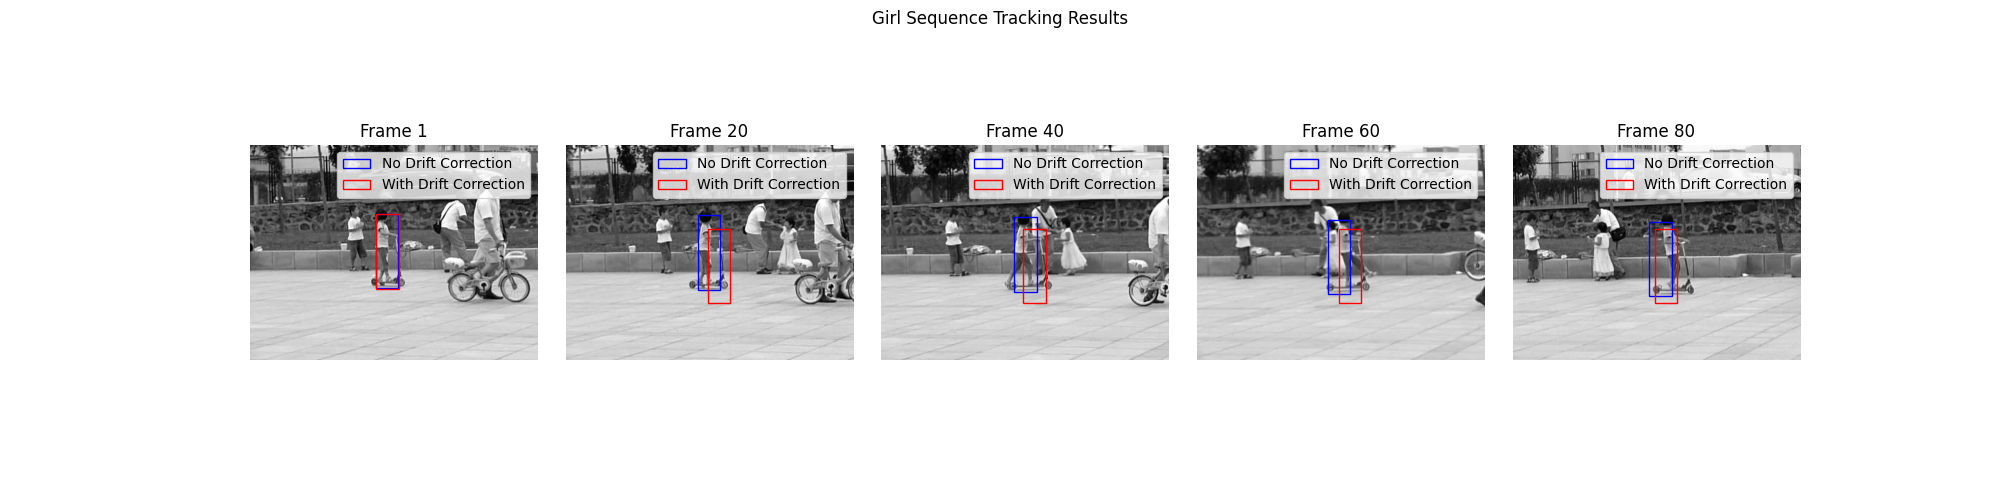
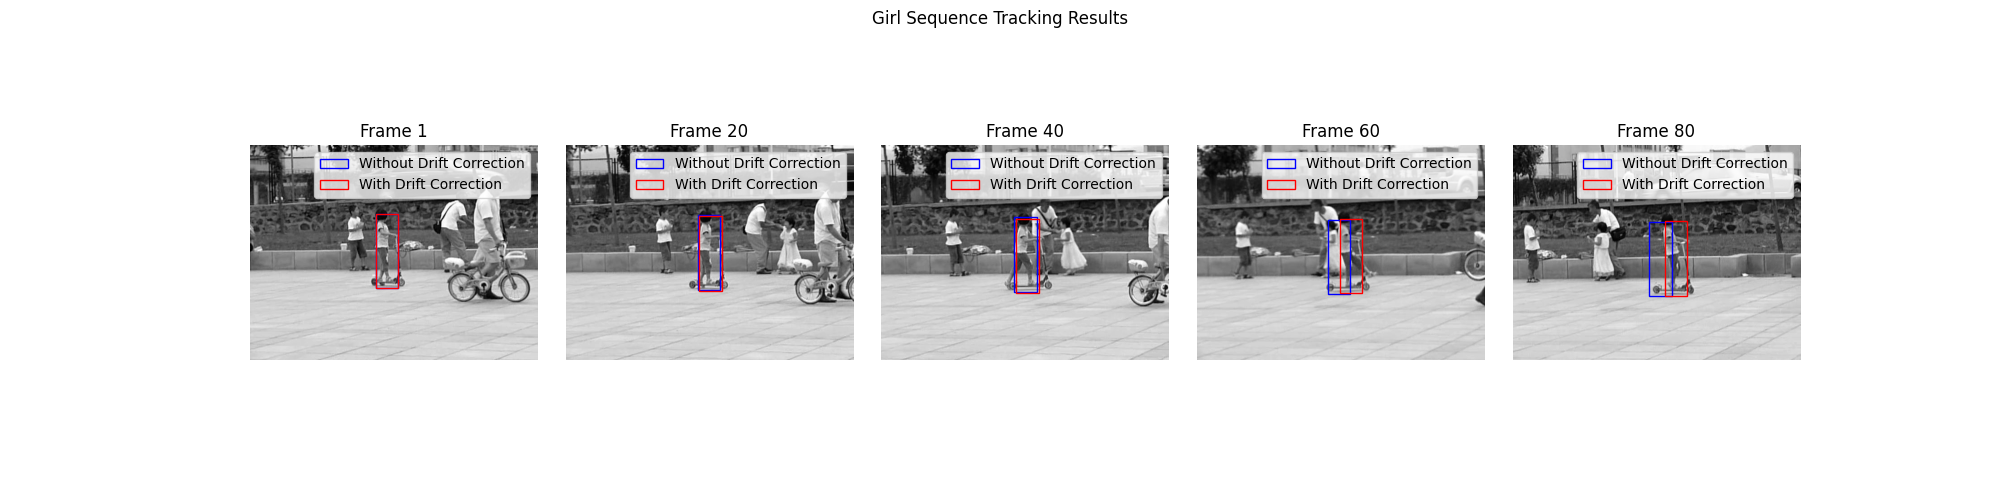
drift correction works

diff --git a/HW2_Lucas_Kanade_Tracking/code/testCarSequenceWithTemplateCorrection.py b/HW2_Lucas_Kanade_Tracking/code/testCarSequenceWithTemplateCorrection.py
@@ -4,8 +4,7 @@ import matplotlib.pyplot as plt
 import matplotlib.patches as patches
 from LucasKanade import LucasKanade
 
-# write your script here, we recommend the above libraries for making your animation
-
+# Argument parser for customizable parameters
 parser = argparse.ArgumentParser()
 parser.add_argument(
     '--num_iters', type=int, default=1e4, help='number of iterations of Lucas-Kanade'
@@ -27,82 +26,62 @@ num_iters = args.num_iters
 threshold = args.threshold
 template_threshold = args.template_threshold
 
-# load the car sequence
+# load the girl sequence
 seq = np.load("../data/carseq.npy")
 
-# templet in the first frame
-rect_ndc = [59, 116, 145, 151]   # no drift correction
-rect_wdc = [59, 116, 145, 151]   # with drift correction
+# initial template in the first frame
+rect_wdc = np.array([59, 116, 145, 151])    # with drift correction   
+rect_ndc = rect_wdc.copy()                  # no drift correction
+rects_wdc = [rect_wdc.copy()]           
+rects_ndc = [rect_ndc.copy()]   
 
 # number of frames for the sequence
 num_frames = seq.shape[2]
 
-# initialize the rectangle coordinates (no drift correction)
-rects_ndc = np.zeros((num_frames, 4))
-rects_ndc[0] = rect_ndc.copy()
+# initial template in the first frame
+It = seq[:, :, 0]
+It0 = seq[:, :, 0]
 
-# initialize the rectangle coordinates (with drift correction)
-rects_wdc = np.zeros((num_frames, 4))
-rects_wdc[0] = rect_wdc.copy()
-
-# iterate through the frames
 for i in range(num_frames - 1):
     print(f"Tracking at frame {i + 1}/{num_frames - 1}")
 
     # get the first, current, and next frame images
-    It = seq[:, :, i]
     It1 = seq[:, :, i + 1]
-    It0 = seq[:, :, 0]
-
+ 
     # run Lucas-Kanade tracking without drift correction
     p_ndc = LucasKanade(It, It1, rect_ndc, threshold, num_iters)
 
-    # update the rectangle coordinates (no drift correction)
-    rect_ndc[0] += p_ndc[0]
-    rect_ndc[1] += p_ndc[1]
-    rect_ndc[2] += p_ndc[0]
-    rect_ndc[3] += p_ndc[1]
-
-    # Save the rectangle coordinates (no drift correction)
-    rects_ndc[i + 1] = rect_ndc.copy()
+    # update the rectangle coordinates without drift correction
+    rect_ndc = rect_ndc + np.array([p_ndc[0], p_ndc[1], p_ndc[0], p_ndc[1]])
+    rects_ndc.append(rect_ndc.copy())
 
     # run Lucas-Kanade tracking (with drift correction)
-    p_wdc = LucasKanade(It0, It1, rect_wdc, threshold, num_iters, p_ndc)
+    p = LucasKanade(It, It1, rect_wdc, threshold, num_iters)
 
-    # update the rectangle coordinates (with drift correction)
-    rect_wdc[0] += p_wdc[0]
-    rect_wdc[1] += p_wdc[1]
-    rect_wdc[2] += p_wdc[0]
-    rect_wdc[3] += p_wdc[1]
-
-    # calculate drift
-    drift = p_wdc - p_ndc
+    # update the rectangle coordinates with drift correction
+    p_n = np.array(rects_wdc[-1][:2]) - np.array(rects_wdc[0][:2]) + p
+    p_star = LucasKanade(It0, It1, rects_wdc[0], threshold, num_iters, p_n)
 
     # drift correction condition
-    if np.linalg.norm(drift) <= template_threshold:
-        # apply drift correction
-        rect_wdc[0] += p_wdc[0]
-        rect_wdc[1] += p_wdc[1]
-        rect_wdc[2] += p_wdc[0]
-        rect_wdc[3] += p_wdc[1]
-        print(f"Frame {i+1}: Drift correction applied with {drift}")
+    if np.linalg.norm(p_star - p_n) <= template_threshold:
+        It = It1
+        p_star = np.array(rects_wdc[0][:2]) - np.array(rects_wdc[-1][:2]) + p_star
+        p = p_star
 
-    else:
-        # keep previous template
-        rect_wdc = rects_wdc[i].copy()
-        print(f"Frame {i+1}: No drift correction applied")
-        
-    # Save the rectangle coordinates with drift correction
-    rects_wdc[i + 1] = rect_wdc.copy()
+    # update the rectangle coordinates
+    rect_wdc = rect_wdc + np.array([p[0], p[1], p[0], p[1]])
+    rects_wdc.append(rect_wdc.copy())
 
 # save the rectangle coordinates to file
-np.save("../results/carseqrects.npy", rects_ndc)
+rects_wdc = np.array(rects_wdc)         
+rects_ndc = np.array(rects_ndc)       
 np.save("../results/carseqrects-wcrt.npy", rects_wdc)
+np.save("../results/carseqrects.npy", rects_ndc)
 
 # visualize the tracking results @ frame 1, 100, 200, 300, 400 
 frames = [1, 100, 200, 300, 400]
 fig, ax = plt.subplots(1, len(frames), figsize=(20, 5))
-fig.suptitle("Car Sequence Tracking Results") 
+fig.suptitle("Car Sequence Tracking Results")
 plt.subplots_adjust(wspace=0.1, hspace=0.1)
 
 for i, frame in enumerate(frames):
@@ -133,7 +112,7 @@ for i, frame in enumerate(frames):
         )
     )
     ax[i].set_title(f"Frame {frame}", fontsize=12)
-    ax[i].legend(["No Drift Correction", "With Drift Correction"])
+    ax[i].legend(["Without Drift Correction", "With Drift Correction"])
 
 plt.savefig("../results/Q1.4_car.png")
 plt.show()

diff --git a/HW2_Lucas_Kanade_Tracking/code/testGirlSequenceWithTemplateCorrection.py b/HW2_Lucas_Kanade_Tracking/code/testGirlSequenceWithTemplateCorrection.py
@@ -4,8 +4,7 @@ import matplotlib.pyplot as plt
 import matplotlib.patches as patches
 from LucasKanade import LucasKanade
 
-# write your script here, we recommend the above libraries for making your animation
-
+# Argument parser for customizable parameters
 parser = argparse.ArgumentParser()
 parser.add_argument(
     '--num_iters', type=int, default=1e4, help='number of iterations of Lucas-Kanade'
@@ -30,79 +29,59 @@ template_threshold = args.template_threshold
 # load the girl sequence
 seq = np.load("../data/girlseq.npy")
 
-# templet in the first frame
-rect_ndc = [280, 152, 330, 318]   # no drift correction
-rect_wdc = [280, 152, 330, 318]   # with drift correction
+# initial template in the first frame
+rect_wdc = np.array([280, 152, 330, 318])   # with drift correction   
+rect_ndc = rect_wdc.copy()                      # no drift correction
+rects_wdc = [rect_wdc.copy()]           
+rects_ndc = [rect_ndc.copy()]   
 
 # number of frames for the sequence
 num_frames = seq.shape[2]
 
-# initialize the rectangle coordinates without drift correction
-rects_ndc = np.zeros((num_frames, 4))
-rects_ndc[0] = rect_ndc.copy()
+# initial template in the first frame
+It = seq[:, :, 0]
+It0 = seq[:, :, 0]
 
-# initialize the rectangle coordinates with drift correction
-rects_wdc = np.zeros((num_frames, 4))
-rects_wdc[0] = rect_wdc.copy()
-
-# iterate through the frames
 for i in range(num_frames - 1):
     print(f"Tracking at frame {i + 1}/{num_frames - 1}")
 
     # get the first, current, and next frame images
-    It = seq[:, :, i]
     It1 = seq[:, :, i + 1]
-    It0 = seq[:, :, 0]
-
+ 
     # run Lucas-Kanade tracking without drift correction
     p_ndc = LucasKanade(It, It1, rect_ndc, threshold, num_iters)
 
     # update the rectangle coordinates without drift correction
-    rect_ndc[0] += p_ndc[0]
-    rect_ndc[1] += p_ndc[1]
-    rect_ndc[2] += p_ndc[0]
-    rect_ndc[3] += p_ndc[1]
-
-    # Save the rectangle coordinates without drift correction
-    rects_ndc[i + 1] = rect_ndc.copy()
+    rect_ndc = rect_ndc + np.array([p_ndc[0], p_ndc[1], p_ndc[0], p_ndc[1]])
+    rects_ndc.append(rect_ndc.copy())
 
     # run Lucas-Kanade tracking (with drift correction)
-    p_wdc = LucasKanade(It0, It1, np.array(rect_wdc), threshold, num_iters, p_ndc)
+    p = LucasKanade(It, It1, rect_wdc, threshold, num_iters)
 
-    # update the rectangle coordinates (with drift correction)
-    rect_wdc[0] += p_wdc[0]
-    rect_wdc[1] += p_wdc[1]
-    rect_wdc[2] += p_wdc[0]
-    rect_wdc[3] += p_wdc[1]
-
-    # calculate drift
-    drift = p_wdc - p_ndc
+    # update the rectangle coordinates with drift correction
+    p_n = np.array(rects_wdc[-1][:2]) - np.array(rects_wdc[0][:2]) + p
+    p_star = LucasKanade(It0, It1, rects_wdc[0], threshold, num_iters, p_n)
 
     # drift correction condition
-    if np.linalg.norm(drift) <= template_threshold:
-        # apply drift correction
-        rect_wdc[0] += p_wdc[0]
-        rect_wdc[1] += p_wdc[1]
-        rect_wdc[2] += p_wdc[0]
-        rect_wdc[3] += p_wdc[1]
-        print(f"Frame {i + 1}: Drift correction applied with {drift}")
+    if np.linalg.norm(p_star - p_n) <= template_threshold:
+        It = It1
+        p_star = np.array(rects_wdc[0][:2]) - np.array(rects_wdc[-1][:2]) + p_star
+        p = p_star
 
-    else:
-        # keep previous template
-        rect_wdc = rects_wdc[i].copy()
-        print(f"Frame {i + 1}: No drift correction applied")
-
-    # Save the rectangle coordinates with drift correction
-    rects_wdc[i + 1] = rect_wdc.copy()
+    # update the rectangle coordinates
+    rect_wdc = rect_wdc + np.array([p[0], p[1], p[0], p[1]])
+    rects_wdc.append(rect_wdc.copy())
 
 # save the rectangle coordinates to file
-np.save("../results/girlseqrects.npy", rects_ndc)
+rects_wdc = np.array(rects_wdc)         
+rects_ndc = np.array(rects_ndc)       
 np.save("../results/girlseqrects-wcrt.npy", rects_wdc)
+np.save("../results/girlseqrects.npy", rects_ndc)
 
-# visualize the tracking results @ frame 1, 20, 40, 60, 80 
+# visualize the tracking results @ frame 1, 20, 40, 60, 80
 frames = [1, 20, 40, 60, 80]
 fig, ax = plt.subplots(1, len(frames), figsize=(20, 5))
-fig.suptitle("Girl Sequence Tracking Results") 
+fig.suptitle("Girl Sequence Tracking Results")
 plt.subplots_adjust(wspace=0.1, hspace=0.1)
 
 for i, frame in enumerate(frames):
@@ -133,7 +112,7 @@ for i, frame in enumerate(frames):
         )
     )
     ax[i].set_title(f"Frame {frame}", fontsize=12)
-    ax[i].legend(["No Drift Correction", "With Drift Correction"])
+    ax[i].legend(["Without Drift Correction", "With Drift Correction"])
 
 plt.savefig("../results/Q1.4_girl.png")
 plt.show()

diff --git a/HW2_Lucas_Kanade_Tracking/code/LucasKanade.py b/HW2_Lucas_Kanade_Tracking/code/LucasKanade.py
@@ -2,6 +2,14 @@ import numpy as np
 from scipy.interpolate import RectBivariateSpline
 import cv2
 
+def warp_image(x ,y, p):
+    # warp the image
+    x_warped = x + p[0]
+    y_warped = y + p[1]
+    
+    return x_warped, y_warped
+
+
 def LucasKanade(It, It1, rect, threshold, num_iters, p0=np.zeros(2)):
     """
     :param It: template image (previous frame)
@@ -30,30 +38,32 @@ def LucasKanade(It, It1, rect, threshold, num_iters, p0=np.zeros(2)):
     It_interp = RectBivariateSpline(np.arange(It.shape[0]), np.arange(It.shape[1]), It)
     It1_interp = RectBivariateSpline(np.arange(It1.shape[0]), np.arange(It1.shape[1]), It1)
 
-    # termination condition
-    dp = np.array([1, 1])
-    i = 0
-
-    while np.linalg.norm(dp) >= threshold and i < num_iters:
-        i += 1
+    # iterate through the number of iterations
+    for _ in range(int(num_iters)):
 
         # interpolate the current template image
         It_template = It_interp.ev(y, x).flatten()
 
         # warp the current image using the movement vector
-        x_warped, y_warped = x + p[0], y + p[1]
+        x_warped, y_warped = warp_image(x, y, p)
+
+        # interpolate the warped image
         It1_warped = It1_interp.ev(y_warped, x_warped).flatten()
-        
-        # compute the Jacobian
-        A = np.array([It1_interp.ev(y_warped, x_warped, dy=1).flatten(), It1_interp.ev(y_warped, x_warped, dx=1).flatten()]).T
 
         # compute the error image
         b = (It_template - It1_warped).flatten()
+
+        # compute the Jacobian
+        A = np.array([It1_interp.ev(y_warped, x_warped, dy=1).flatten(), It1_interp.ev(y_warped, x_warped, dx=1).flatten()]).T
 
         # compute the delta p
         dp = np.linalg.lstsq(A, b, rcond=None)[0]
 
         # update the movement vector
         p += dp
+
+        # terminate condition
+        if np.linalg.norm(dp) < threshold:
+            break
 
     return p

diff --git a/HW2_Lucas_Kanade_Tracking/code/testGirlSequence.py b/HW2_Lucas_Kanade_Tracking/code/testGirlSequence.py
@@ -2,6 +2,7 @@ import argparse
 import numpy as np
 import matplotlib.pyplot as plt
 import matplotlib.patches as patches
+import cv2
 from LucasKanade import LucasKanade
 
 # write your script here, we recommend the above libraries for making your animation
@@ -28,12 +29,13 @@ num_frames = seq.shape[2]
 
 # initialize the rectangle coordinates
 rects = np.zeros((num_frames, 4))
-
-# set the rectangle coordinates for the first frame
 rects[0] = rect
+
 
 # iterate through the frames
 for i in range(num_frames - 1):
+    print(f"Tracking at frame {i + 1}/{num_frames - 1}")
+    
     # get the current frame and the next frame
     It = seq[:, :, i]
     It1 = seq[:, :, i + 1]
@@ -41,14 +43,8 @@ for i in range(num_frames - 1):
     # run Lucas-Kanade tracking
     p = LucasKanade(It, It1, rect, threshold, num_iters)
 
-    # debug print
-    # print(f"tracking at frame {i + 1}, movement vector: {p}")
-
     # update the rectangle coordinates for the next frame
-    rect[0] += p[0]
-    rect[2] += p[0]
-    rect[1] += p[1]
-    rect[3] += p[1]
+    rect = [rect[0] + p[0], rect[1] + p[1], rect[2] + p[0], rect[3] + p[1]]
     
     # save the rectangle coordinates
     rects[i + 1] = rect.copy()

diff --git a/HW2_Lucas_Kanade_Tracking/code/testCarSequence.py b/HW2_Lucas_Kanade_Tracking/code/testCarSequence.py
@@ -37,21 +37,16 @@ rects[0] = rect
 
 # iterate through the frames
 for i in range(num_frames - 1):
+    print(f"Tracking at frame {i + 1}/{num_frames - 1}")
     # get the current frame and the next frame
     It = seq[:, :, i]
     It1 = seq[:, :, i + 1]
 
     # run Lucas-Kanade tracking
     p = LucasKanade(It, It1, rect, threshold, num_iters)
-    
-    # debug print
-    # print(f"tracking at frame {i + 1}, movement vector: {p}")
 
     # update the rectangle coordinates for the next frame
-    rect[0] += p[0]
-    rect[2] += p[0]
-    rect[1] += p[1]
-    rect[3] += p[1]
+    rect = [rect[0] + p[0], rect[1] + p[1], rect[2] + p[0], rect[3] + p[1]]
 
     # save the rectangle coordinates
     rects[i + 1] = rect.copy()
